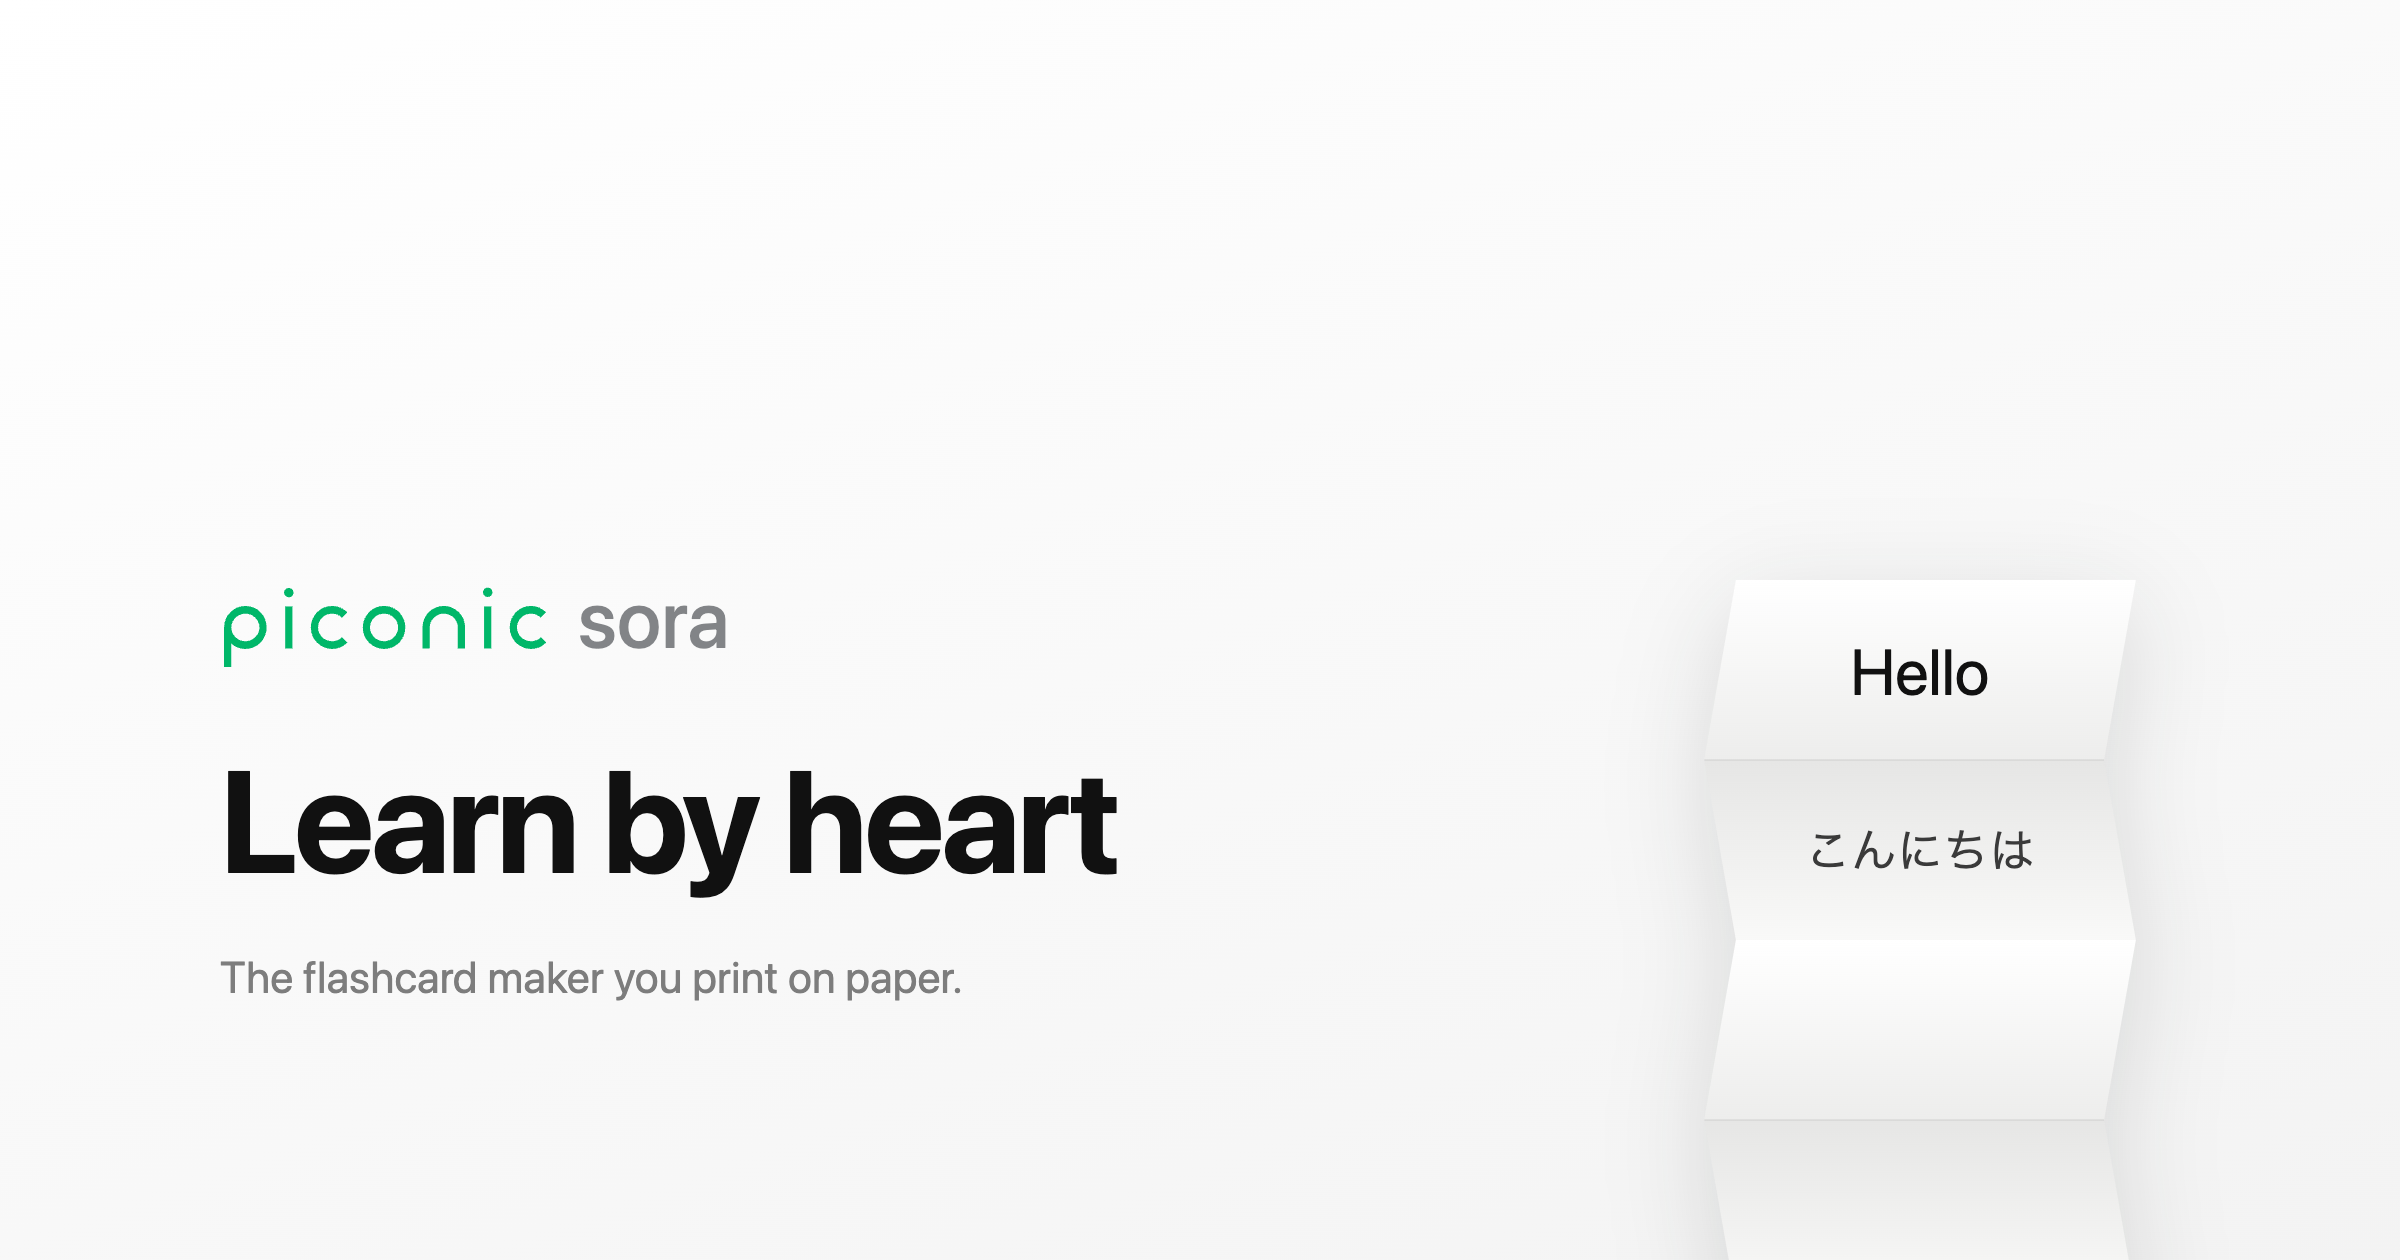
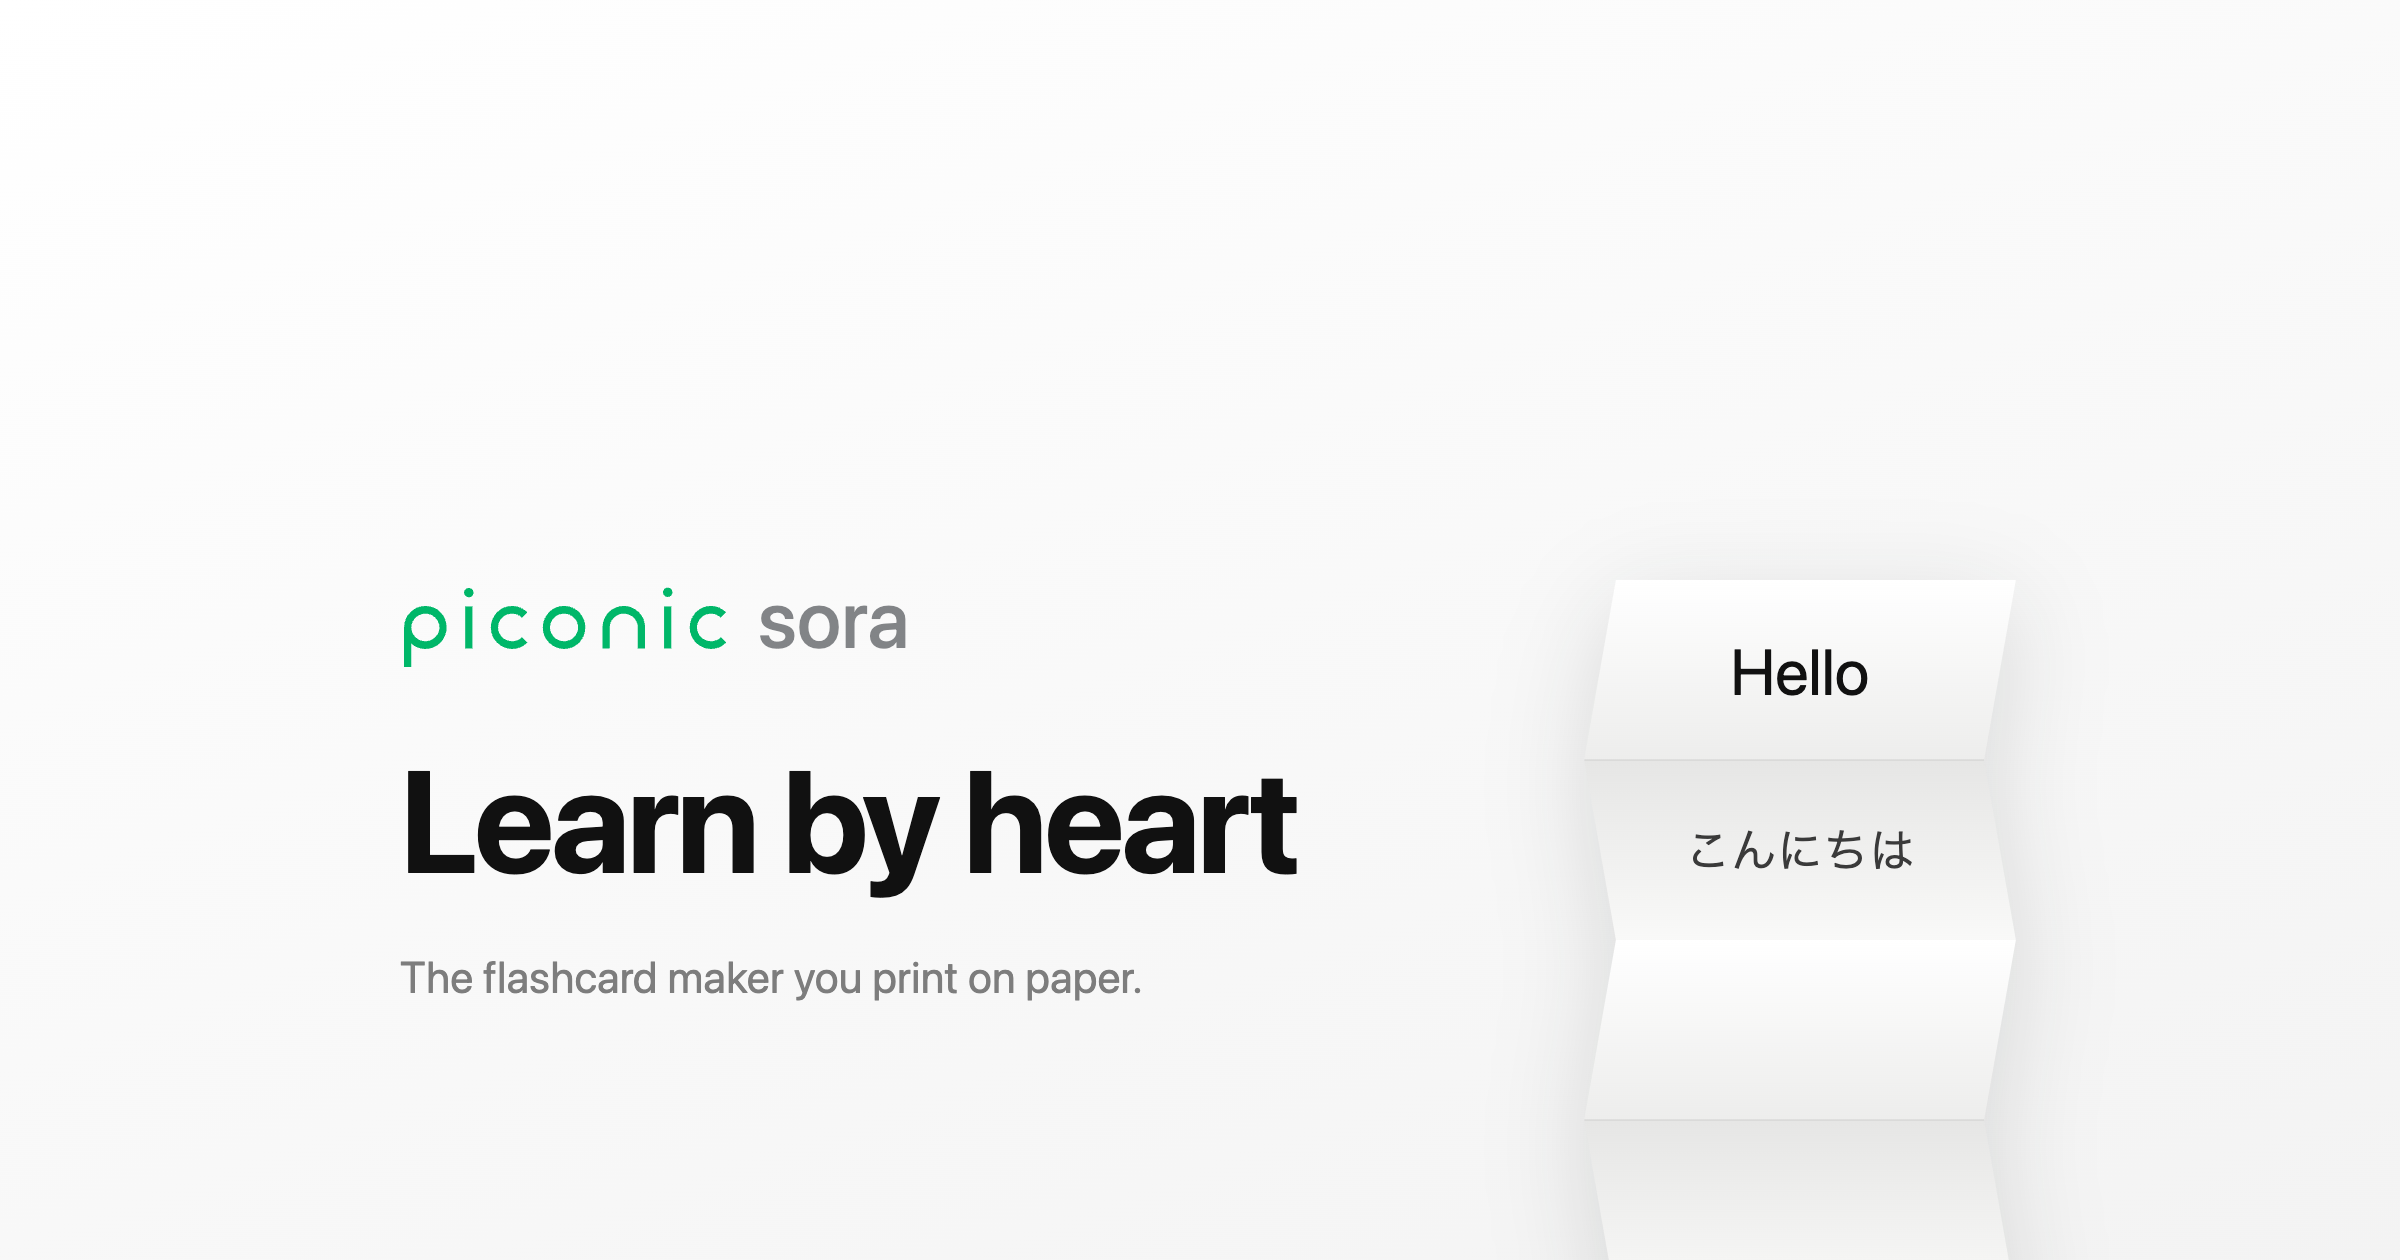
design: OG card — group the text block and strip toward the center
The catch copy ended ~570px away from the strip, leaving a dead zone in
the middle of the card. Equal outer margins (400px each side) pull the
two elements into one composition, with ~260px between the copy and the
paper.

diff --git a/docs/og.html b/docs/og.html
@@ -23,7 +23,7 @@
   /* ---- left: brand, catch copy, product description ---- */
   .left {
     position: absolute;
-    left: 220px;
+    left: 400px;
     top: 580px; /* brand row sits on the strip's top edge line, near mid-card */
   }
   .title {
@@ -64,7 +64,7 @@
      folds. Same silhouette as the favicon's chevron, turned upright. */
   .strip {
     position: absolute;
-    right: 280px;
+    right: 400px;
     top: 580px; /* the strip's start stays visible; the rest runs off-card */
     display: flex;
     flex-direction: column;